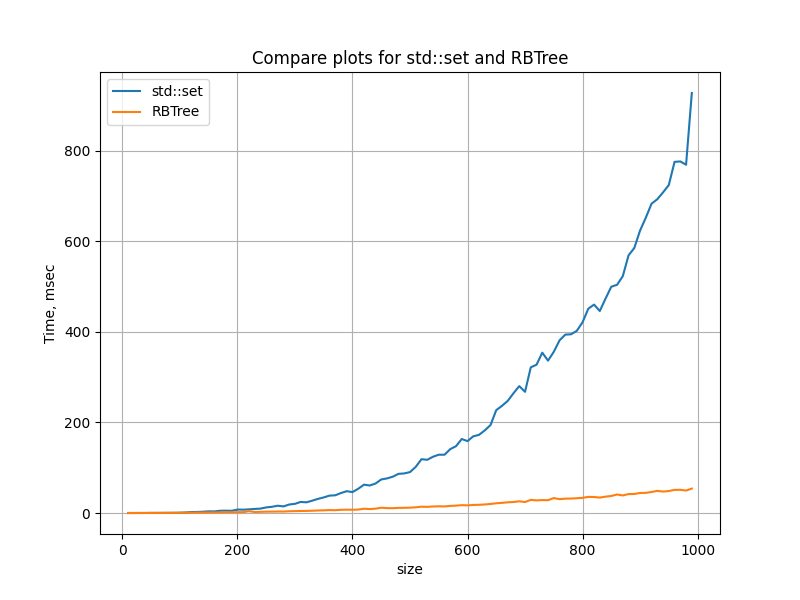
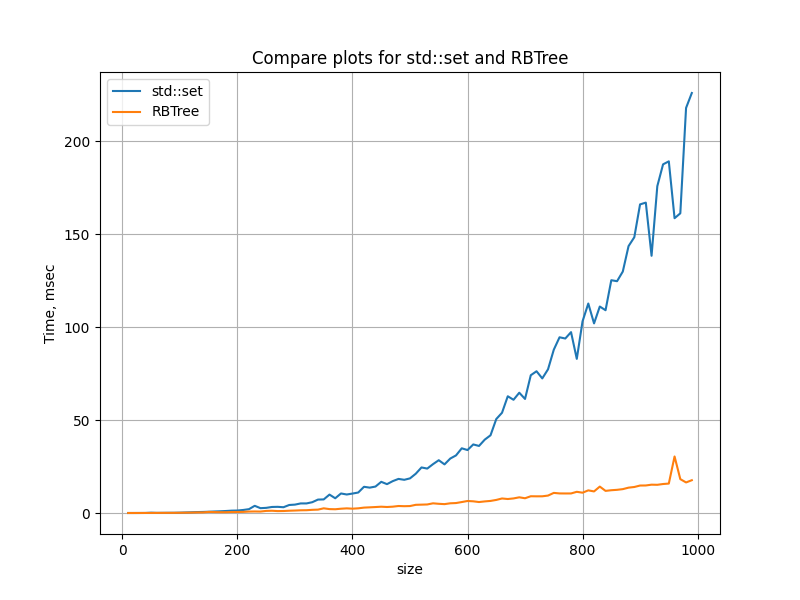
Added O2 optimization

diff --git a/Tree/test/Compare.py b/Tree/test/Compare.py
@@ -1,6 +1,6 @@
 import matplotlib.pyplot as plt
 
-with open('../test/compare.txt', 'r') as file:
+with open('./test/compare.txt', 'r') as file:
     lines = file.readlines()
 
 x = []
@@ -21,4 +21,4 @@ plt.ylabel('Time, msec')
 plt.legend()
 plt.title('Compare plots for std::set and RBTree')
 plt.grid(True)
-plt.savefig("../res/compare.png")
+plt.savefig("./res/compare.png")

diff --git a/Tree/test/TreeTest.cpp b/Tree/test/TreeTest.cpp
@@ -117,7 +117,6 @@ TEST(RBvsSTDSET, speed_test) {
 		//std::cout << sumDist << " ";
 		file << static_cast<double>(elapsed.count()) * 0.001 << "\t";
 
-		sumDist = 0;
 		start = std::chrono::high_resolution_clock::now();
 		for (auto it1 = rb.begin(); it1 != rb.end(); ++it1) {
 			for (auto it2 = it1; it2 != rb.end(); ++it2) {
